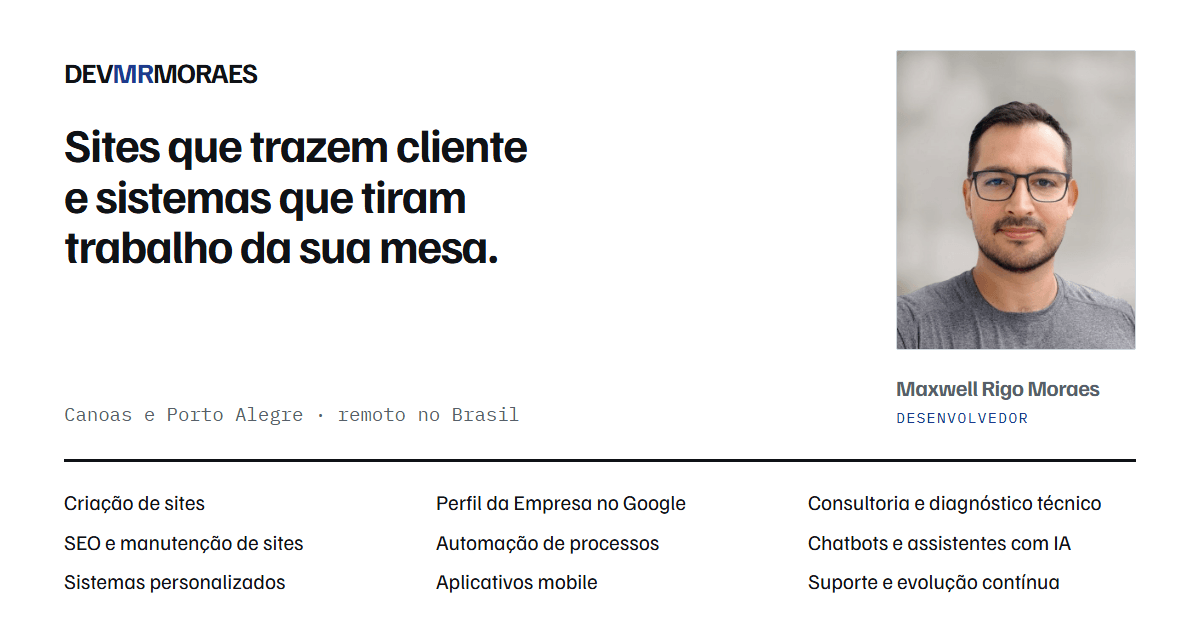
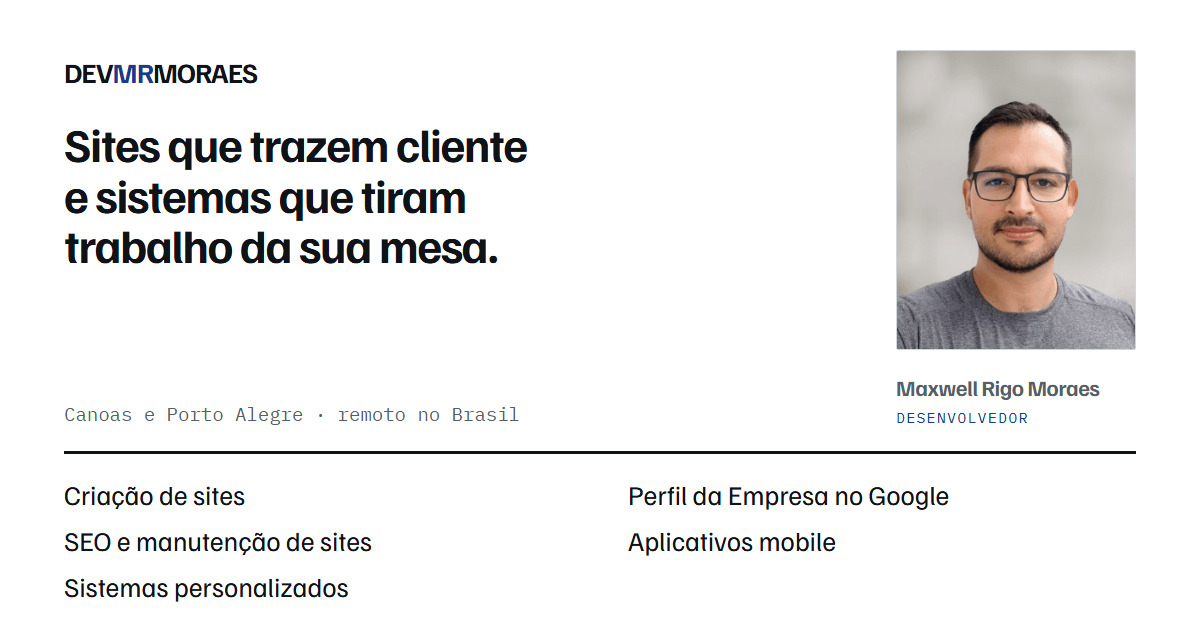
front: o card fica com os cinco carros-chefe, e eles passam a ser legiveis
Saem automacao, consultoria, chatbots e suporte. Ficam criacao de sites, SEO, sistemas,
Perfil da Empresa no Google e aplicativos mobile.

A conta e de legibilidade, e nao de espaco: o card e lido a uns 350px de largura dentro
do WhatsApp, o que divide todo corpo por tres e meio. Com nove nomes eles cabiam em 21px
e ninguem lia de relance; com cinco, cabem em 27px e leem. Os quatro que sairam continuam
na home e no rodape, que e onde ha espaco para eles.

De 57.982 B para 55.743 B.

diff --git a/tools/og-card.html b/tools/og-card.html
@@ -6,8 +6,10 @@
 <style>
   /* Peca de compartilhamento, 1200x630. Usa os tokens e as fontes do site, com a
      composicao refeita para o formato deitado: a chamada e o retrato dividem a metade
-     de cima, e os nove servicos ocupam a largura inteira embaixo -- em duas colunas eles
-     ficariam estreitos demais para os nomes longos. */
+     de cima, e os cinco carros-chefe ocupam a largura inteira embaixo.
+     Cinco e nao nove: o card e lido a uns 350px de largura dentro do WhatsApp, e nove
+     nomes obrigavam um corpo em que ninguem le de relance. Os outros quatro servicos
+     continuam na home e no rodape. */
   html, body { margin: 0; }
   body {
     width: 1200px;
@@ -76,19 +78,19 @@
   /* O fio e o mesmo eixo da home, e aqui ele separa quem eu sou do que eu faco. */
   .servicos {
     border-top: 3px solid var(--grafite);
-    margin-top: 30px;
-    padding-top: 20px;
+    margin-top: 22px;
+    padding-top: 18px;
   }
   .servicos ul {
     list-style: none;
     margin: 0;
     padding: 0;
-    columns: 3;
-    column-gap: 44px;
+    columns: 2;
+    column-gap: 56px;
   }
   .servicos li {
-    font-size: 21px;
-    line-height: 1.3;
+    font-size: 27px;
+    line-height: 1.25;
     padding: 6px 0;
     break-inside: avoid;
     color: var(--grafite);
@@ -117,11 +119,7 @@
       <li>SEO e manutenção de sites</li>
       <li>Sistemas personalizados</li>
       <li>Perfil da Empresa no Google</li>
-      <li>Automação de processos</li>
       <li>Aplicativos mobile</li>
-      <li>Consultoria e diagnóstico técnico</li>
-      <li>Chatbots e assistentes com IA</li>
-      <li>Suporte e evolução contínua</li>
     </ul>
   </div>
 </body>

diff --git a/DESIGN-SYSTEM.md b/DESIGN-SYSTEM.md
@@ -181,13 +181,18 @@ fontes do site — não é um arquivo de imagem editado à mão.
 ~100 KB sem diferença visível. **Fique abaixo de 300 KB**: acima disso o WhatsApp
 deixa de mostrar o preview.
 
-**O card não leva o preço.** Na home o número é a manchete, mas num link que chega pelo
-WhatsApp o que precisa aparecer é o que ele faz — os nove serviços ocupam a largura
-inteira embaixo do fio, em três colunas.
+**O card não leva o preço, e não leva os nove serviços.** Na home o número é a manchete,
+mas num link que chega pelo WhatsApp o que precisa aparecer é o que ele faz — e apenas os
+**cinco carros-chefe**, em duas colunas embaixo do fio: criação de sites, SEO, sistemas,
+Perfil da Empresa no Google e aplicativos mobile.
 
-O que precisa sobreviver quando o card encolhe no aplicativo: o rosto, a chamada e o
-nome da marca. Os serviços ficam no limite da leitura e a linha de cidade vira textura,
-e tudo bem: quem quer detalhe abre o link.
+A conta é de legibilidade. O card é lido a uns 350 px de largura dentro do aplicativo,
+o que divide todo corpo por três e meio. Com nove nomes eles cabiam em 21 px e ninguém
+lia de relance; com cinco, cabem em 27 px e leem. Os outros quatro serviços continuam na
+home e no rodapé, que é onde há espaço para eles.
+
+O que precisa sobreviver quando o card encolhe: o rosto, a chamada, a marca e os cinco
+nomes. A linha de cidade vira textura, e tudo bem.
 
 ---
 
